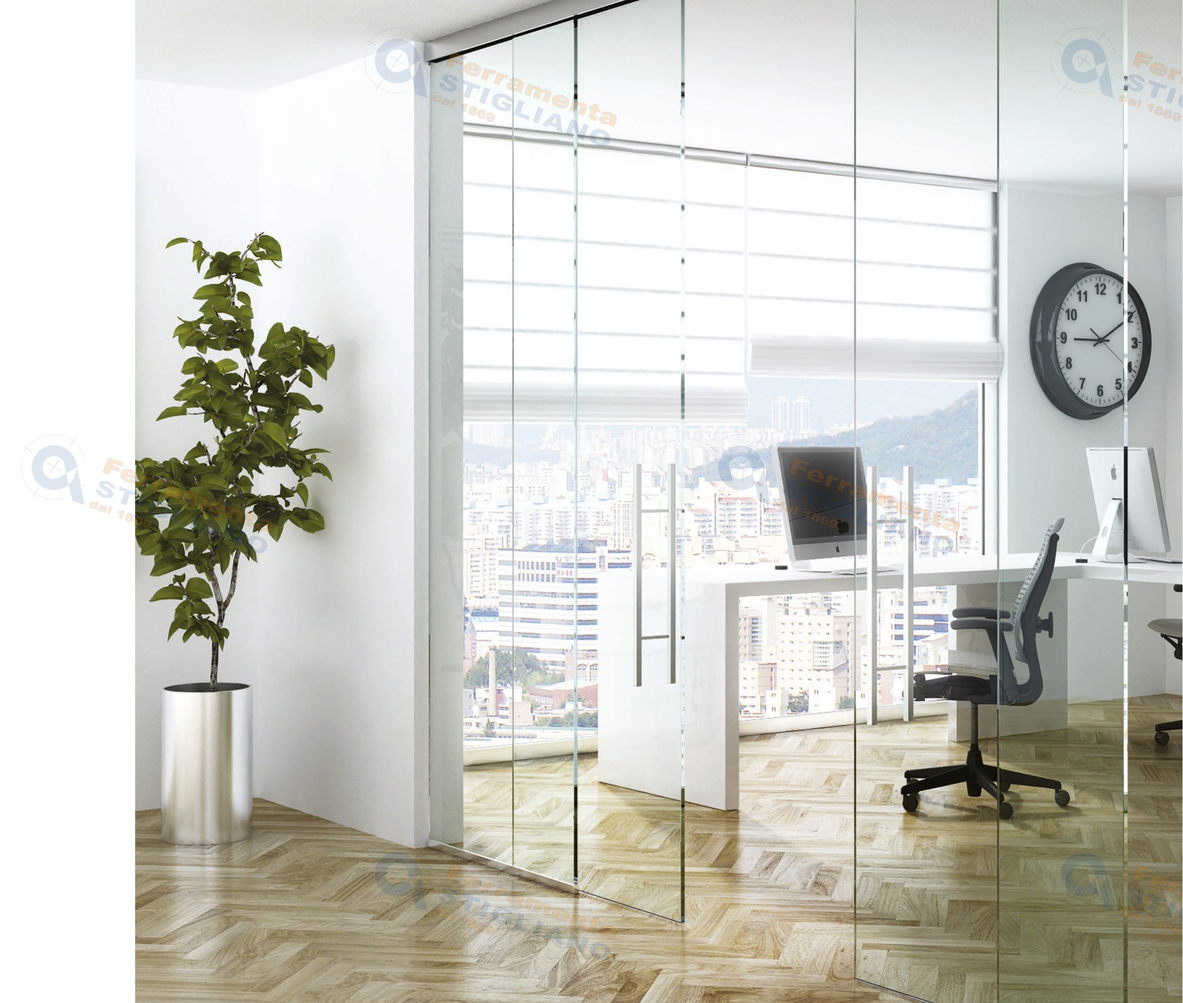
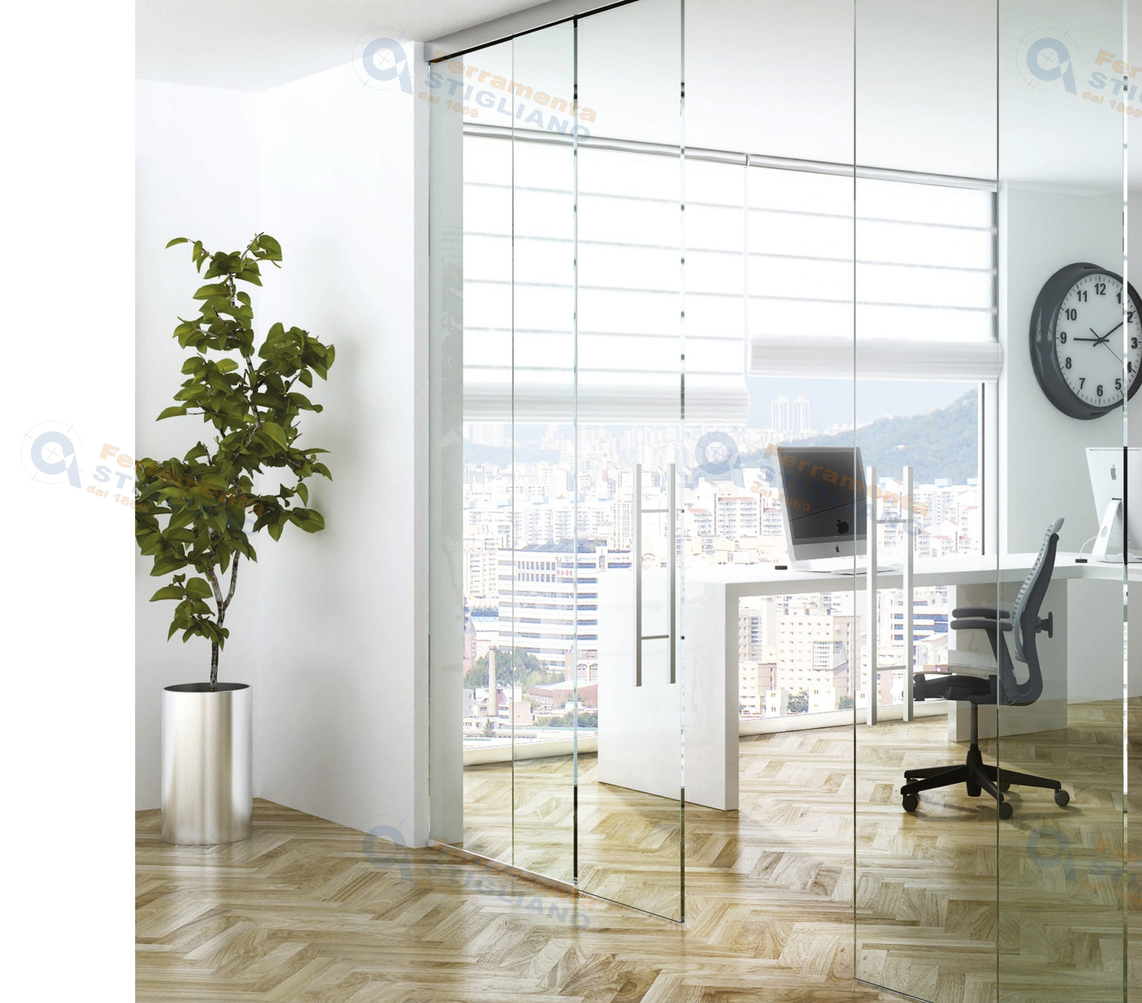
Solo Vetro: ricrop della foto ambientata e la mette per prima
Il ritaglio precedente arrivava fino al bordo della pagina originale,
tagliando a meta' la seconda sedia sullo sfondo. Ricavato un ritaglio
piu' stretto che chiude la scena in modo pulito. La foto ambientata
passa inoltre in prima posizione nella galleria (foto ravvicinata del
meccanismo e disegno esploso a seguire), come per gli altri prodotti
Terno Scorrevoli della stessa categoria.

Claude-Session: https://claude.ai/code/session_01A1K2EaLFiCKk5DVUV4MM1g

diff --git a/src/CatalogoVetro.jsx b/src/CatalogoVetro.jsx
@@ -1631,7 +1631,7 @@ const PRODOTTI_VETRO = [
       { titolo: 'Due finiture disponibili', testo: 'Argento anodizzato e argento spazzolato anodizzato.' },
     ],
     immagini: {
-      'Argento': [solovetroDettaglio, solovetroAmbienteUfficio, solovetroEsploso],
+      'Argento': [solovetroAmbienteUfficio, solovetroDettaglio, solovetroEsploso],
     },
     varianti: [
       { codice: 'K.0272.5', finitura: 'Argento' },
